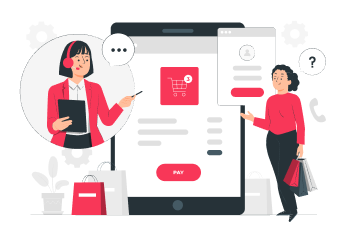
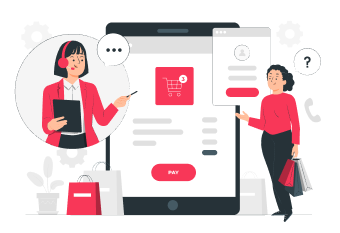
last commit for intro screens

diff --git a/lib/components/intro/widget/intro_bottom_bar_widget.dart b/lib/components/intro/widget/intro_bottom_bar_widget.dart
@@ -28,41 +28,37 @@ class IntroBottomBarWidget extends StatelessWidget {
             child: SizedBox(width: KSize.kPixel40, height: KSize.kPixel8),
           ),
         );
-    late String routeName;
-    switch (pageType) {
-      case IntroType.first:
-        routeName = KRoute.intro2.name;
-      case IntroType.second:
-        routeName = KRoute.intro3.name;
-      case IntroType.third:
-        routeName = KRoute.login.name;
-    }
     return Padding(
       padding: const EdgeInsets.symmetric(horizontal: KPadding.kPaddingSize9),
       child: Row(
         children: [
-          const Expanded(child: SizedBox.shrink()),
+          Expanded(
+            child: pageType == IntroType.first
+                ? const SizedBox.shrink()
+                : Align(
+                    alignment: Alignment.centerLeft,
+                    child: TextButton(
+                      onPressed: () => popEvent(context),
+                      style: KButtonStyles.introGrey,
+                      child: Text(
+                        context.l10n.prev,
+                        style: AppTextStyle.greySmallButton,
+                        textAlign: TextAlign.end,
+                      ),
+                    ),
+                  ),
+          ),
           Row(spacing: KPadding.kPaddingSize10, children: paginationList),
           Expanded(
             child: Align(
               alignment: Alignment.centerRight,
               child: TextButton(
-                onPressed: () => context.goNamed(routeName),
-                style: const ButtonStyle(
-                  padding: WidgetStatePropertyAll(
-                    EdgeInsets.symmetric(
-                      horizontal: KPadding.kPaddingSize10,
-                      vertical: KPadding.kPaddingSize3,
-                    ),
-                  ),
-                  alignment: Alignment.centerRight,
-                  overlayColor: WidgetStatePropertyAll<Color>(
-                    AppColors.lightGrey,
-                  ),
-                  tapTargetSize: MaterialTapTargetSize.padded,
-                ),
+                onPressed: () => context.goNamed(nextRoute),
+                style: KButtonStyles.introRed,
                 child: Text(
-                  context.l10n.next,
+                  pageType == IntroType.third
+                      ? context.l10n.getStarted
+                      : context.l10n.next,
                   style: AppTextStyle.redSmallButton,
                   textAlign: TextAlign.end,
                 ),
@@ -72,5 +68,26 @@ class IntroBottomBarWidget extends StatelessWidget {
         ],
       ),
     );
+  }
+
+  String get nextRoute {
+    switch (pageType) {
+      case IntroType.first:
+        return KRoute.intro2.name;
+      case IntroType.second:
+        return KRoute.intro3.name;
+      case IntroType.third:
+        return KRoute.login.name;
+    }
+  }
+
+  void popEvent(BuildContext context) {
+    if (context.canPop()) {
+      context.pop();
+    } else {
+      context.goNamed(
+        pageType == IntroType.second ? KRoute.intro.name : KRoute.intro2.name,
+      );
+    }
   }
 }

diff --git a/lib/components/intro/widget/intro_body.dart b/lib/components/intro/widget/intro_body.dart
@@ -6,11 +6,13 @@ class IntroBody extends StatelessWidget {
     required this.title,
     required this.description,
     required this.image,
+    required this.imagePadding,
     super.key,
   });
   final String title;
   final String description;
   final Image image;
+  final EdgeInsets imagePadding;
 
   @override
   Widget build(BuildContext context) {
@@ -23,8 +25,10 @@ class IntroBody extends StatelessWidget {
           child: Column(
             mainAxisAlignment: MainAxisAlignment.center,
             children: [
-              image,
-              KSizedBox.kHeightSizedBox15,
+              SizedBox(
+                width: double.infinity,
+                child: Padding(padding: imagePadding, child: image),
+              ),
               Text(title, style: AppTextStyle.title),
               KSizedBox.kHeightSizedBox10,
               Text(

diff --git a/lib/shared/constants/style/button_constants.dart b/lib/shared/constants/style/button_constants.dart
@@ -16,4 +16,24 @@ abstract class KButtonStyles {
       RoundedRectangleBorder(borderRadius: KBorderRadius.kBorderRadius32),
     ),
   );
+  static const ButtonStyle introRed = ButtonStyle(
+    padding: WidgetStatePropertyAll(
+      EdgeInsets.symmetric(
+        horizontal: KPadding.kPaddingSize10,
+        vertical: KPadding.kPaddingSize3,
+      ),
+    ),
+    alignment: Alignment.centerRight,
+    overlayColor: WidgetStatePropertyAll<Color>(AppColors.lightGrey),
+  );
+  static const ButtonStyle introGrey = ButtonStyle(
+    padding: WidgetStatePropertyAll(
+      EdgeInsets.symmetric(
+        horizontal: KPadding.kPaddingSize10,
+        vertical: KPadding.kPaddingSize3,
+      ),
+    ),
+    alignment: Alignment.centerRight,
+    overlayColor: WidgetStatePropertyAll<Color>(AppColors.lightGrey),
+  );
 }

diff --git a/lib/shared/constants/widget/image_constants.dart b/lib/shared/constants/widget/image_constants.dart
@@ -3,17 +3,14 @@ import 'package:flutter/material.dart';
 class KImage {
   static const introFirstImage = Image(
     image: AssetImage('assets/images/fashion-shop-rafiki.png'),
-    height: 300,
-    width: 300,
+    fit: BoxFit.contain,
   );
   static const introSecondImage = Image(
     image: AssetImage('assets/images/sales-consulting-pana.png'),
-    height: 350,
-    width: 233,
+    fit: BoxFit.contain,
   );
   static const introThirdImage = Image(
     image: AssetImage('assets/images/shopping-bag-rafiki.png'),
-    height: 350,
-    width: 350,
+    fit: BoxFit.contain,
   );
 }

diff --git a/lib/shared/constants/dimensions/padding_constants.dart b/lib/shared/constants/dimensions/padding_constants.dart
@@ -1,10 +1,16 @@
 abstract class KPadding {
   static const kPaddingSize3 = 3.0;
+  static const kPaddingSize4 = 4.0;
   static const kPaddingSize8 = 8.0;
   static const kPaddingSize9 = 9.0;
   static const kPaddingSize10 = 10.0;
   static const kPaddingSize12 = 12.0;
+  static const kPaddingSize15 = 15.0;
   static const kPaddingSize16 = 16.0;
   static const kPaddingSize17 = 17.0;
+  static const kPaddingSize20 = 20.0;
   static const kPaddingSize24 = 24.0;
+  static const kPaddingSize34 = 34.0;
+  static const kPaddingSize48 = 48.0;
+  static const kPaddingSize51 = 51.0;
 }

diff --git a/lib/components/intro/first/widget/body/first_intro_body.dart b/lib/components/intro/first/widget/body/first_intro_body.dart
@@ -14,6 +14,11 @@ class FirstIntroBody extends StatelessWidget {
           title: context.l10n.firstIntroTitle,
           description: context.l10n.firstIntroDescription,
           image: KImage.introFirstImage,
+          imagePadding: const EdgeInsets.only(
+            bottom: KPadding.kPaddingSize15,
+            right: KPadding.kPaddingSize20,
+            left: KPadding.kPaddingSize20,
+          ),
         ),
         const IntroBottomBarWidget(pageType: IntroType.first),
       ],

diff --git a/lib/components/intro/second/widget/body/second_intro_body.dart b/lib/components/intro/second/widget/body/second_intro_body.dart
@@ -14,6 +14,10 @@ class SecondIntroBody extends StatelessWidget {
           title: context.l10n.secondIntroTitle,
           description: context.l10n.secondIntroDescription,
           image: KImage.introSecondImage,
+          imagePadding: const EdgeInsets.only(
+            bottom: KPadding.kPaddingSize34,
+            top: KPadding.kPaddingSize48,
+          ),
         ),
         const IntroBottomBarWidget(pageType: IntroType.second),
       ],

diff --git a/lib/components/intro/third/widget/body/third_intro_body.dart b/lib/components/intro/third/widget/body/third_intro_body.dart
@@ -14,6 +14,10 @@ class ThirdIntroBody extends StatelessWidget {
           title: context.l10n.thirdIntroTitle,
           description: context.l10n.thirdIntroDescription,
           image: KImage.introThirdImage,
+          imagePadding: const EdgeInsets.only(
+            bottom: KPadding.kPaddingSize51,
+            top: KPadding.kPaddingSize4,
+          ),
         ),
         const IntroBottomBarWidget(pageType: IntroType.third),
       ],
